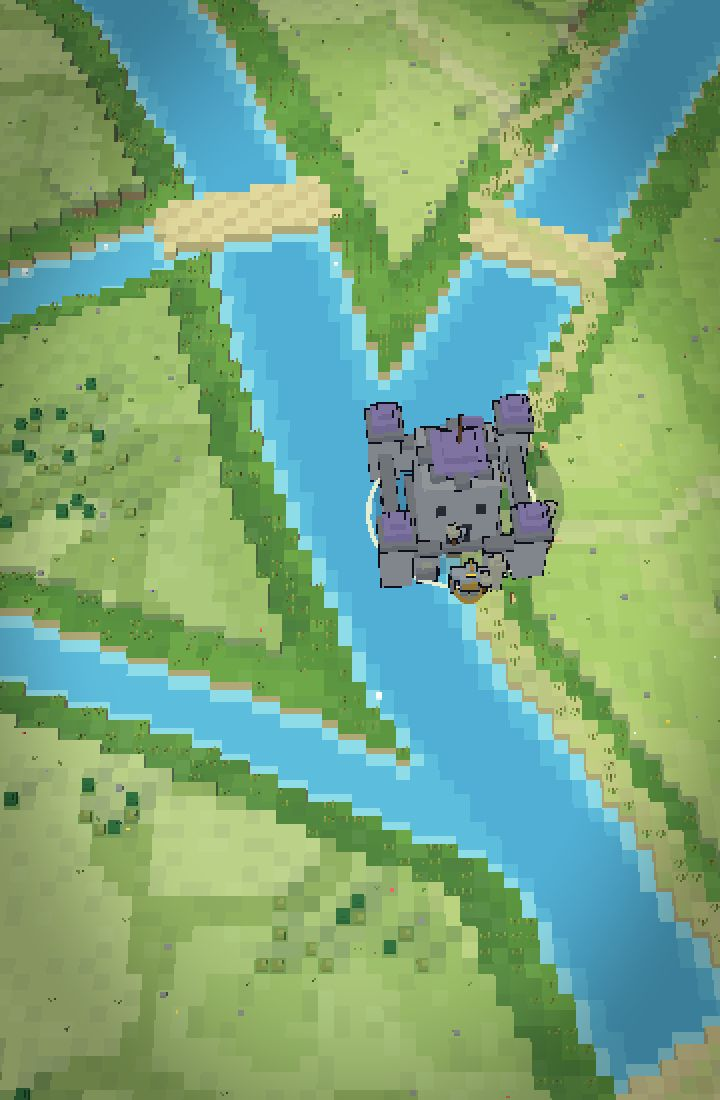
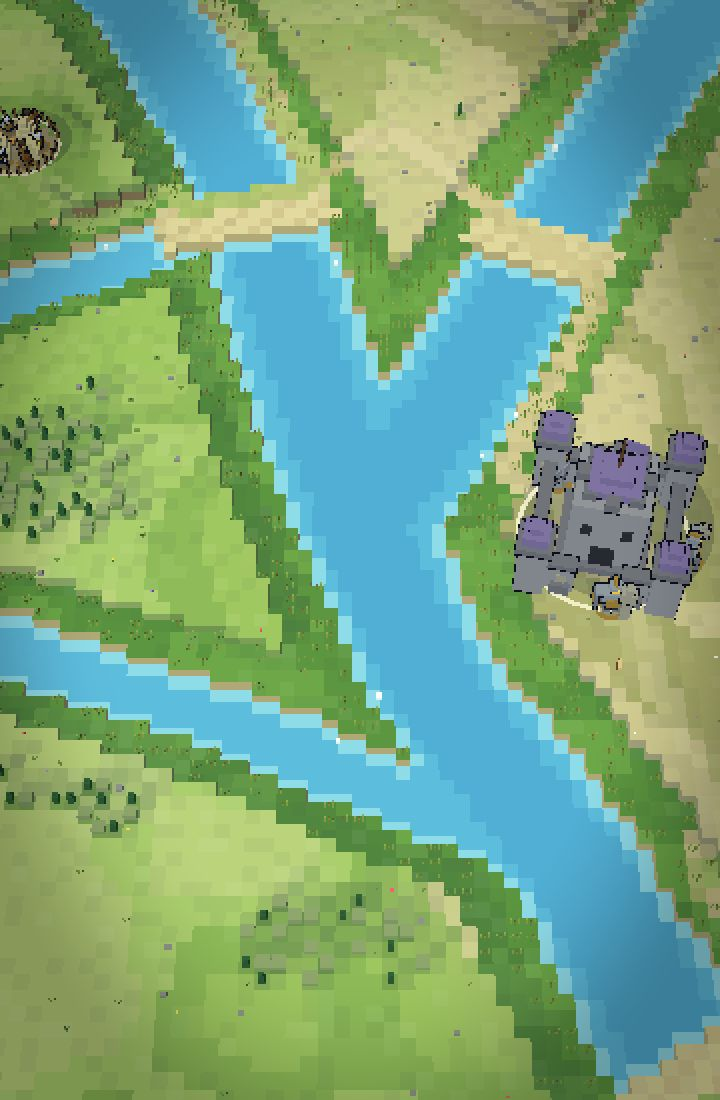
La ciudadela de la confluencia (afluentes) y la del istmo solo se colocan donde caben enteras en tierra firme (antes podían caer en la orilla y quedar medio en el agua; si no cabe junto a la confluencia, va al pueblo más céntrico). Imagen del menú de la costa: el mar abajo y la playa con el galeón; 

diff --git a/src/map.js b/src/map.js
@@ -291,12 +291,13 @@ export function generate(newSeed, tries = 0) {
   const nearSite = (x, z, r, maxD) => { const n = findSite(x, z, r, maxD); return n >= 0 ? n : nearestNode(x, z); };
   for (const [x, z] of geoR?.special || []) { const n = nearSite(x, z, geoR.oasis ? 4 : 6, 13); if (Math.hypot(cellX(n) - x, cellZ(n) - z) < 14) addTown(cellX(n), cellZ(n), geoR.goldTop || scen === 'lago' ? { special: true } : geoR.oasis ? { oasis: true } : {}); }
   // sitios propios de la geografía: una atalaya en cada puerto de la cordillera y la ciudadela en el paso del istmo
-  const onLand = ([x, z], max = 8, r = 3.5) => { const n = nearSite(x, z, r, max); return Math.hypot(cellX(n) - x, cellZ(n) - z) < max && spots.every(o => Math.hypot(o.x - cellX(n), o.z - cellZ(n)) > 18) ? n : -1; };
+  // strict: solo un sitio donde el edificio quepa entero en tierra firme (sin caer a la casilla andable más cercana, que podía ser la orilla de un río)
+  const onLand = ([x, z], max = 8, r = 3.5, strict = false) => { const n = strict ? findSite(x, z, r, max) : nearSite(x, z, r, max); if (n < 0) return -1; return Math.hypot(cellX(n) - x, cellZ(n) - z) < max && spots.every(o => Math.hypot(o.x - cellX(n), o.z - cellZ(n)) > 18) ? n : -1; };
   if (scen === 'cordillera') for (const p of geoR.passes) { const n = onLand(p); if (n >= 0) addTown(cellX(n), cellZ(n), { watch: true }); }
   if (geoR?.confluence) {   // la ciudadela en la confluencia (afluentes) o en el centro de la isla (cañón: siempre dentro de la isla)
-    const n = scen === 'canon' ? nearestNode(geoR.confluence[0], geoR.confluence[1]) : onLand(geoR.confluence, 18, 6.5);
+    const n = scen === 'canon' ? nearestNode(geoR.confluence[0], geoR.confluence[1]) : onLand(geoR.confluence, 26, 6.5, true);   // si no cabe en seco junto a la confluencia, la ciudadela va al pueblo más céntrico
     if (n >= 0) addTown(cellX(n), cellZ(n), { keep: true }); }
-  if (scen === 'istmo' && geoR.passes[0]) { const n = onLand(geoR.passes[0], 14, 5); if (n >= 0) addTown(cellX(n), cellZ(n), { keep: true }); }
+  if (scen === 'istmo' && geoR.passes[0]) { let n = onLand(geoR.passes[0], 14, 5.5, true); if (n < 0) n = onLand(geoR.passes[0], 14, 5); if (n >= 0) addTown(cellX(n), cellZ(n), { keep: true }); }
   // el mismo número de pueblos en cada mitad (con más de dos jugadores, en la zona de cada fortaleza)
   const zoneOf = (x, z) => { if (NP === 2) return x >= MW / 2 ? 1 : 0; let b = 0, bd = 1e9; for (const f of forts) { const d = Math.hypot(f.x - x, f.z - z); if (d < bd) { bd = d; b = f.side; } } return b; };
   const halves = players().map(h => pool.filter(i => zoneOf(cellX(i), cellZ(i)) === h));
